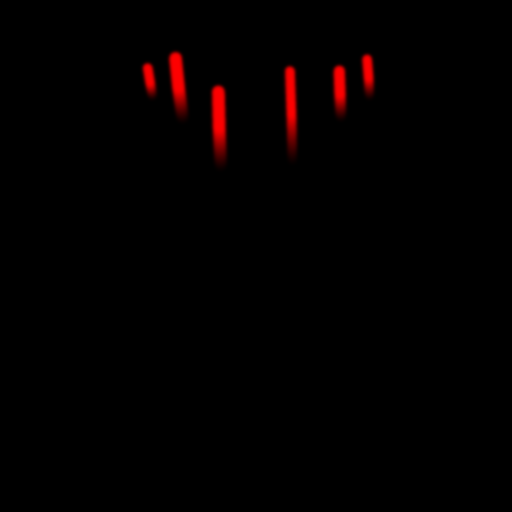
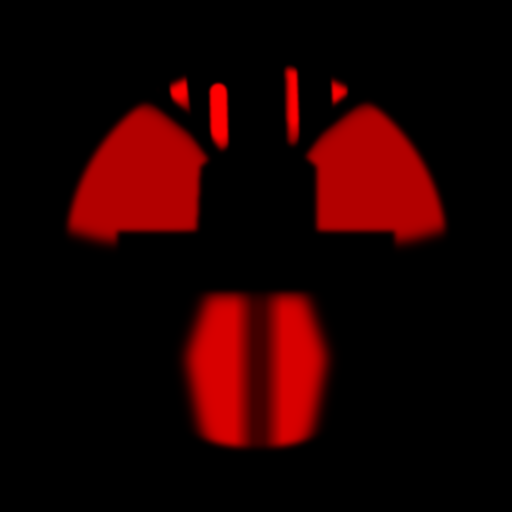
Coin loader and header refinements
- Centre inscription now stamped into the metal in Times New Roman,
  matching the reference medal; ENDLESSLY BECOMING larger and clearer
  but still faint
- Flame animation larger and extended to the flame-feathered wing panels
  and the lower-body wisps; head, neck, chest, wing bones, lettering and
  rim stay still
- Loader coin smaller (fits within about half the viewport height)
- Header: globe icon before LANGUAGE on every page, rotating subtitle no
  longer italic, YVIS HAUSEN wordmark bold and larger

Claude-Session: https://claude.ai/code/session_01GEiCiMgUdnFGueHPjJC2GJ

Changed region(s): [[0.3438, 0.5625, 0.6562, 0.875], [0.125, 0.0938, 0.4688, 0.5], [0.5312, 0.0938, 0.875, 0.5]]

diff --git a/styles.css b/styles.css
@@ -40,7 +40,7 @@ button{font-family:inherit;background:none;border:none;color:inherit;cursor:poin
 }
 #loader.hide{ opacity:0; visibility:hidden; pointer-events:none; }
 .loader-coin{
-  position:relative; width:min(64vw,400px); aspect-ratio:1/1;
+  position:relative; width:min(58vw,52vh,360px); aspect-ratio:1/1;
   opacity:0; transform:scale(0.985);
   animation:coinIn 1.4s cubic-bezier(.2,.7,.2,1) .15s forwards;
 }
@@ -61,12 +61,12 @@ button{font-family:inherit;background:none;border:none;color:inherit;cursor:poin
 .bar-left{ display:flex; align-items:baseline; gap:16px; justify-self:start; min-width:0; }
 .wordmark{
   font-family:var(--serif); color:var(--fg);
-  font-size:clamp(14px,2vw,19px); letter-spacing:0.18em; font-weight:400;
+  font-size:clamp(16px,2.4vw,23px); letter-spacing:0.16em; font-weight:700;
   cursor:pointer; white-space:nowrap;
 }
 .subtitle-wrap{ height:20px; overflow:hidden; position:relative; }
 .subtitle-cycle{
-  font-family:var(--serif); font-style:italic; font-weight:400;
+  font-family:var(--serif); font-style:normal; font-weight:400;
   font-size:clamp(11px,1.4vw,13px); letter-spacing:0.03em; color:var(--muted);
   display:inline-block; white-space:nowrap;
   transition:opacity .7s cubic-bezier(.4,0,.2,1), transform .7s cubic-bezier(.4,0,.2,1);
@@ -86,7 +86,9 @@ button{font-family:inherit;background:none;border:none;color:inherit;cursor:poin
 .lang-toggle{
   font-family:var(--serif); font-size:11.5px; letter-spacing:0.14em;
   color:var(--fg); cursor:pointer; position:relative; padding-bottom:3px;
+  display:inline-flex; align-items:center; gap:7px;
 }
+.lang-globe{ width:13px; height:13px; flex:none; margin-top:-1px; }
 .lang-toggle::after{
   content:""; position:absolute; left:0; bottom:0; width:0; height:1px;
   background:var(--fg); transition:width .3s ease;

diff --git a/script.js b/script.js
@@ -1,6 +1,7 @@
 // ---------- Loader (index page only) ----------
 // The coin is a still PNG; on top of it a small WebGL pass animates only the
-// flame strands rising from the bird's wings. The bird, lettering and the
+// metal flames: the strands above the wings, the flame-feathered wing panels
+// and the wisps of the lower body. The bird itself, the lettering and the
 // rest of the coin stay perfectly still.
 const LOADER_MS = 3200;
 let stopCoinFire = null;
@@ -25,7 +26,7 @@ function startCoinFire(canvas){
     precision mediump float;
     varying vec2 uv;
     uniform sampler2D coin;    // the finished coin
-    uniform sampler2D flames;  // r: how free each flame strand is (0 anchored, 1 at the tip)
+    uniform sampler2D flames;  // r: how freely each flame may move (0 held still, 1 free)
     uniform float t;
     float hash(vec2 p){ return fract(sin(dot(p, vec2(127.1, 311.7))) * 43758.5453); }
     float noise(vec2 p){
@@ -44,7 +45,7 @@ function startCoinFire(canvas){
         float phase = uv.y * 95.0 + t * 2.4 + uv.x * 40.0;
         float sway = 0.7 * sin(phase) + 0.3 * (noise(vec2(uv.x * 30.0, uv.y * 12.0 + t * 0.9)) * 2.0 - 1.0);
         float lick = 0.5 + 0.5 * sin(phase * 0.5 + 1.3);
-        st += vec2(sway * 0.0042, -lick * 0.0022) * w;
+        st += vec2(sway * 0.0078, -lick * 0.0038) * w;
         // a faint glint of light rising up the strand
         glint = w * smoothstep(0.55, 1.0, sin(uv.y * 38.0 + t * 2.0)) * 0.3;
       }

diff --git a/marketing.html b/marketing.html
@@ -251,7 +251,7 @@
       </div>
       <div class="bar-right">
         <div class="lang-dropdown">
-          <span class="lang-toggle" data-i18n="lang_label">LANGUAGE</span>
+          <span class="lang-toggle"><svg class="lang-globe" viewBox="0 0 24 24" fill="none" stroke="currentColor" stroke-width="1.3" aria-hidden="true"><circle cx="12" cy="12" r="9.5"/><ellipse cx="12" cy="12" rx="4.2" ry="9.5"/><path d="M2.5 12h19M4 7h16M4 17h16"/></svg><span data-i18n="lang_label">LANGUAGE</span></span>
           <div class="lang-menu">
             <span class="lang-option active" data-lang="en" data-i18n="lang_option_en">English</span>
             <span class="lang-option" data-lang="fr" data-i18n="lang_option_fr">French</span>

diff --git a/artists.html b/artists.html
@@ -18,7 +18,7 @@
       </div>
       <div class="bar-right">
         <div class="lang-dropdown">
-          <span class="lang-toggle" data-i18n="lang_label">LANGUAGE</span>
+          <span class="lang-toggle"><svg class="lang-globe" viewBox="0 0 24 24" fill="none" stroke="currentColor" stroke-width="1.3" aria-hidden="true"><circle cx="12" cy="12" r="9.5"/><ellipse cx="12" cy="12" rx="4.2" ry="9.5"/><path d="M2.5 12h19M4 7h16M4 17h16"/></svg><span data-i18n="lang_label">LANGUAGE</span></span>
           <div class="lang-menu">
             <span class="lang-option active" data-lang="en" data-i18n="lang_option_en">English</span>
             <span class="lang-option" data-lang="fr" data-i18n="lang_option_fr">French</span>

diff --git a/collectors.html b/collectors.html
@@ -18,7 +18,7 @@
       </div>
       <div class="bar-right">
         <div class="lang-dropdown">
-          <span class="lang-toggle" data-i18n="lang_label">LANGUAGE</span>
+          <span class="lang-toggle"><svg class="lang-globe" viewBox="0 0 24 24" fill="none" stroke="currentColor" stroke-width="1.3" aria-hidden="true"><circle cx="12" cy="12" r="9.5"/><ellipse cx="12" cy="12" rx="4.2" ry="9.5"/><path d="M2.5 12h19M4 7h16M4 17h16"/></svg><span data-i18n="lang_label">LANGUAGE</span></span>
           <div class="lang-menu">
             <span class="lang-option active" data-lang="en" data-i18n="lang_option_en">English</span>
             <span class="lang-option" data-lang="fr" data-i18n="lang_option_fr">French</span>

diff --git a/database-event-curation.html b/database-event-curation.html
@@ -18,7 +18,7 @@
       </div>
       <div class="bar-right">
         <div class="lang-dropdown">
-          <span class="lang-toggle" data-i18n="lang_label">LANGUAGE</span>
+          <span class="lang-toggle"><svg class="lang-globe" viewBox="0 0 24 24" fill="none" stroke="currentColor" stroke-width="1.3" aria-hidden="true"><circle cx="12" cy="12" r="9.5"/><ellipse cx="12" cy="12" rx="4.2" ry="9.5"/><path d="M2.5 12h19M4 7h16M4 17h16"/></svg><span data-i18n="lang_label">LANGUAGE</span></span>
           <div class="lang-menu">
             <span class="lang-option active" data-lang="en" data-i18n="lang_option_en">English</span>
             <span class="lang-option" data-lang="fr" data-i18n="lang_option_fr">French</span>

diff --git a/database-exhibitions.html b/database-exhibitions.html
@@ -18,7 +18,7 @@
       </div>
       <div class="bar-right">
         <div class="lang-dropdown">
-          <span class="lang-toggle" data-i18n="lang_label">LANGUAGE</span>
+          <span class="lang-toggle"><svg class="lang-globe" viewBox="0 0 24 24" fill="none" stroke="currentColor" stroke-width="1.3" aria-hidden="true"><circle cx="12" cy="12" r="9.5"/><ellipse cx="12" cy="12" rx="4.2" ry="9.5"/><path d="M2.5 12h19M4 7h16M4 17h16"/></svg><span data-i18n="lang_label">LANGUAGE</span></span>
           <div class="lang-menu">
             <span class="lang-option active" data-lang="en" data-i18n="lang_option_en">English</span>
             <span class="lang-option" data-lang="fr" data-i18n="lang_option_fr">French</span>

diff --git a/database-private-art.html b/database-private-art.html
@@ -18,7 +18,7 @@
       </div>
       <div class="bar-right">
         <div class="lang-dropdown">
-          <span class="lang-toggle" data-i18n="lang_label">LANGUAGE</span>
+          <span class="lang-toggle"><svg class="lang-globe" viewBox="0 0 24 24" fill="none" stroke="currentColor" stroke-width="1.3" aria-hidden="true"><circle cx="12" cy="12" r="9.5"/><ellipse cx="12" cy="12" rx="4.2" ry="9.5"/><path d="M2.5 12h19M4 7h16M4 17h16"/></svg><span data-i18n="lang_label">LANGUAGE</span></span>
           <div class="lang-menu">
             <span class="lang-option active" data-lang="en" data-i18n="lang_option_en">English</span>
             <span class="lang-option" data-lang="fr" data-i18n="lang_option_fr">French</span>

diff --git a/database-scenography.html b/database-scenography.html
@@ -18,7 +18,7 @@
       </div>
       <div class="bar-right">
         <div class="lang-dropdown">
-          <span class="lang-toggle" data-i18n="lang_label">LANGUAGE</span>
+          <span class="lang-toggle"><svg class="lang-globe" viewBox="0 0 24 24" fill="none" stroke="currentColor" stroke-width="1.3" aria-hidden="true"><circle cx="12" cy="12" r="9.5"/><ellipse cx="12" cy="12" rx="4.2" ry="9.5"/><path d="M2.5 12h19M4 7h16M4 17h16"/></svg><span data-i18n="lang_label">LANGUAGE</span></span>
           <div class="lang-menu">
             <span class="lang-option active" data-lang="en" data-i18n="lang_option_en">English</span>
             <span class="lang-option" data-lang="fr" data-i18n="lang_option_fr">French</span>

diff --git a/database-sound.html b/database-sound.html
@@ -18,7 +18,7 @@
       </div>
       <div class="bar-right">
         <div class="lang-dropdown">
-          <span class="lang-toggle" data-i18n="lang_label">LANGUAGE</span>
+          <span class="lang-toggle"><svg class="lang-globe" viewBox="0 0 24 24" fill="none" stroke="currentColor" stroke-width="1.3" aria-hidden="true"><circle cx="12" cy="12" r="9.5"/><ellipse cx="12" cy="12" rx="4.2" ry="9.5"/><path d="M2.5 12h19M4 7h16M4 17h16"/></svg><span data-i18n="lang_label">LANGUAGE</span></span>
           <div class="lang-menu">
             <span class="lang-option active" data-lang="en" data-i18n="lang_option_en">English</span>
             <span class="lang-option" data-lang="fr" data-i18n="lang_option_fr">French</span>

diff --git a/database-talent-representation.html b/database-talent-representation.html
@@ -18,7 +18,7 @@
       </div>
       <div class="bar-right">
         <div class="lang-dropdown">
-          <span class="lang-toggle" data-i18n="lang_label">LANGUAGE</span>
+          <span class="lang-toggle"><svg class="lang-globe" viewBox="0 0 24 24" fill="none" stroke="currentColor" stroke-width="1.3" aria-hidden="true"><circle cx="12" cy="12" r="9.5"/><ellipse cx="12" cy="12" rx="4.2" ry="9.5"/><path d="M2.5 12h19M4 7h16M4 17h16"/></svg><span data-i18n="lang_label">LANGUAGE</span></span>
           <div class="lang-menu">
             <span class="lang-option active" data-lang="en" data-i18n="lang_option_en">English</span>
             <span class="lang-option" data-lang="fr" data-i18n="lang_option_fr">French</span>

diff --git a/database-visual-direction.html b/database-visual-direction.html
@@ -18,7 +18,7 @@
       </div>
       <div class="bar-right">
         <div class="lang-dropdown">
-          <span class="lang-toggle" data-i18n="lang_label">LANGUAGE</span>
+          <span class="lang-toggle"><svg class="lang-globe" viewBox="0 0 24 24" fill="none" stroke="currentColor" stroke-width="1.3" aria-hidden="true"><circle cx="12" cy="12" r="9.5"/><ellipse cx="12" cy="12" rx="4.2" ry="9.5"/><path d="M2.5 12h19M4 7h16M4 17h16"/></svg><span data-i18n="lang_label">LANGUAGE</span></span>
           <div class="lang-menu">
             <span class="lang-option active" data-lang="en" data-i18n="lang_option_en">English</span>
             <span class="lang-option" data-lang="fr" data-i18n="lang_option_fr">French</span>
